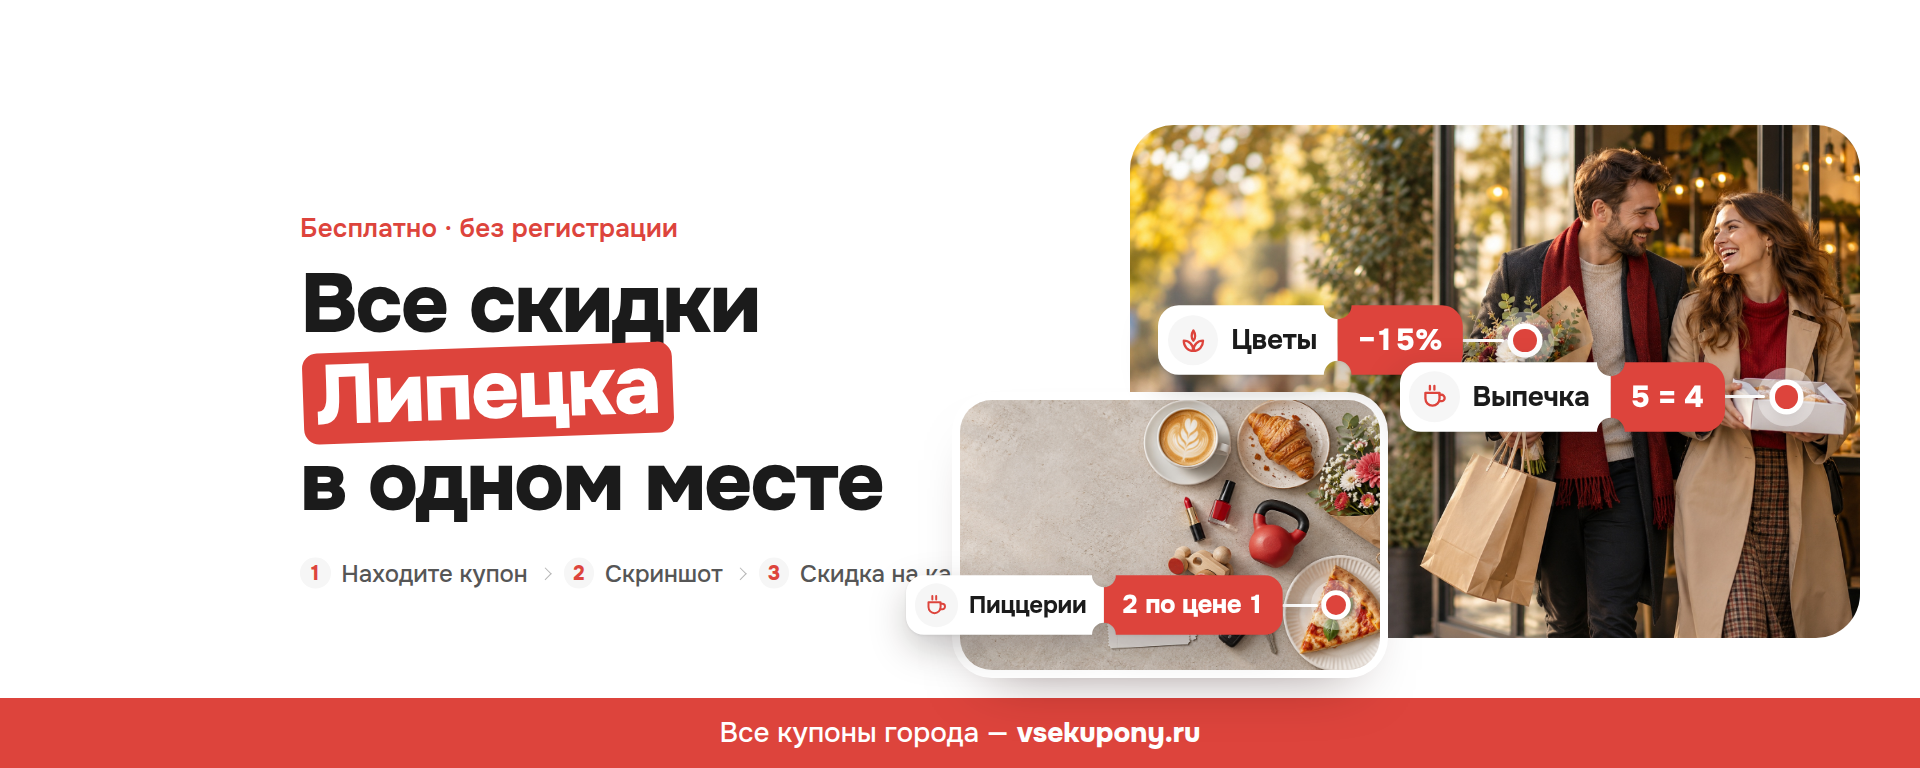
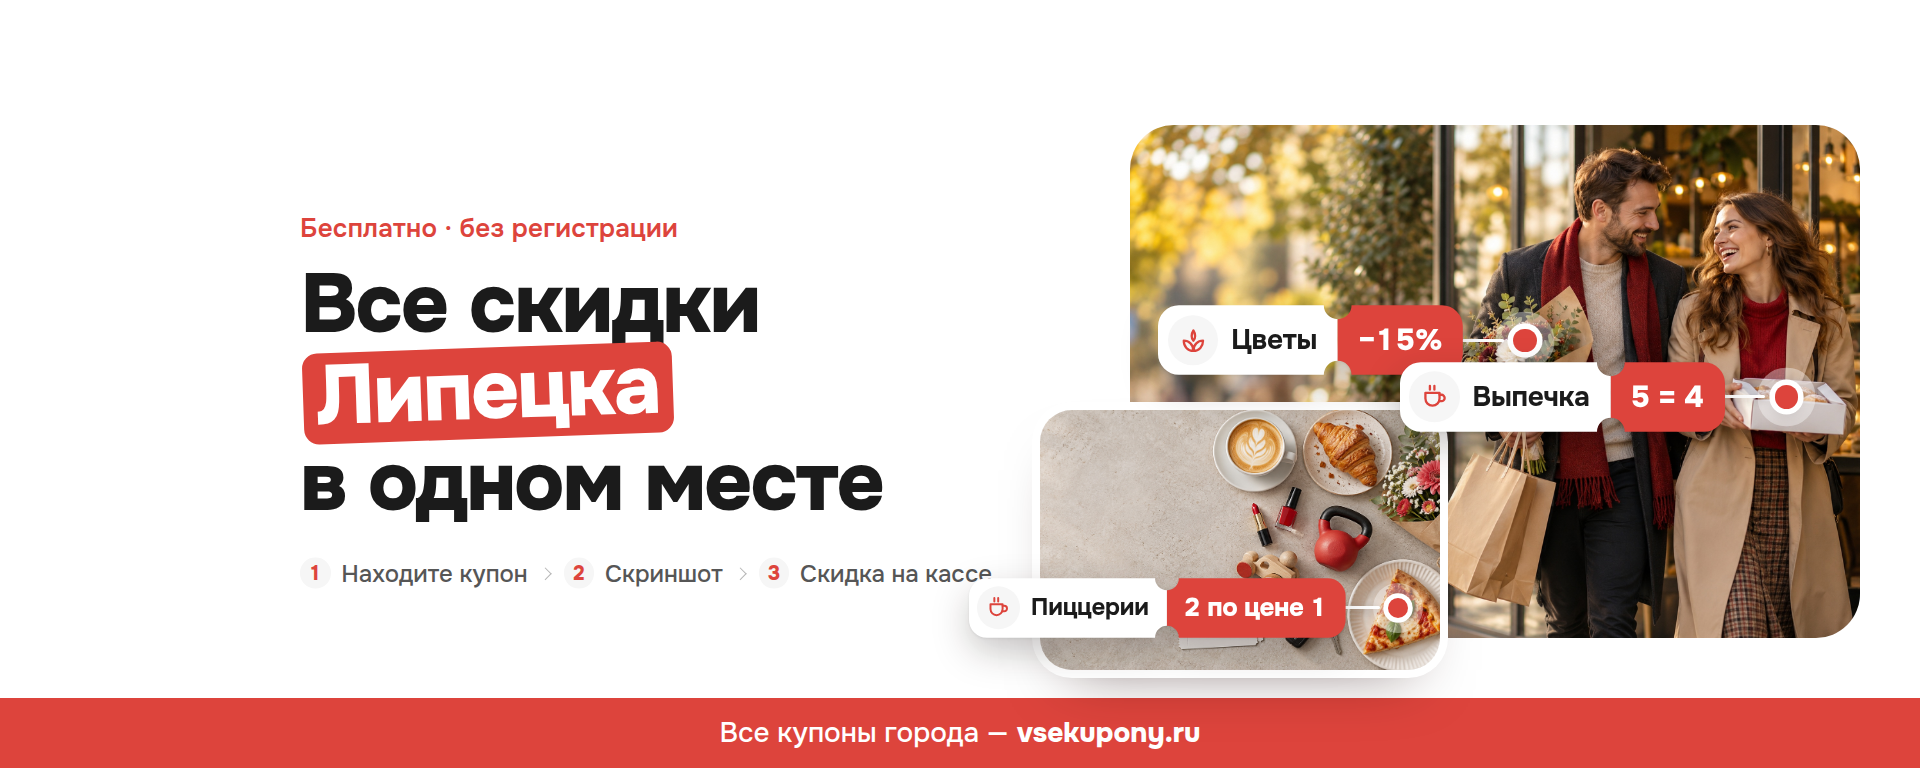
Соцсети: Q без наложения меток, в S малая рамка не заходит на текст
Claude-Session: https://claude.ai/code/session_01VVvPvHVUv25TaftPDqbPP7

Changed region(s): [[0.4688, 0.5, 0.7812, 0.9062]]

diff --git a/social-kit/kit.css b/social-kit/kit.css
@@ -813,5 +813,5 @@ body{
 /* S: две рамки внахлёст — большая справа, малая ниже и левее, с белой
    обводкой, чтобы читалась отдельным снимком */
 :is(#covers2,#vkprev) .vk-cover.cv-duo .shot{left:1130px;top:125px;right:60px;bottom:130px;--pos:72% 40%}
-:is(#covers2,#vkprev) .vk-cover.cv-duo .shot--2{left:960px;top:400px;right:auto;bottom:auto;width:420px;height:270px;
+:is(#covers2,#vkprev) .vk-cover.cv-duo .shot--2{left:1040px;top:410px;right:auto;bottom:auto;width:400px;height:260px;
   border-radius:32px;box-shadow:0 0 0 8px #fff, 0 30px 60px -30px rgba(40,10,8,.5);--pos:88% 75%;--hot-fs:24px;z-index:2}

diff --git a/social-kit/index.html b/social-kit/index.html
@@ -446,7 +446,7 @@
     <div class="row">
       <figure class="slot"><figcaption><b>ВК</b> 1920×768</figcaption>
         <div class="fit"><div class="art vk-cover cv cv-hot cv-frame  has-strip" id="vk-cover-fr-flat" data-out="vk/vk-cover-fr-flat-1920x768">
-          <div class="shot" data-photo="flatlay" data-hot="lipstick,kettle,pizza"></div>
+          <div class="shot" data-photo="flatlay" data-hot="kettle,pizza"></div>
           <div class="txt">
             <div class="eyebrow">Бесплатно · без регистрации</div>
             <h1 class="h1">Все скидки<br><span class="city" data-city>Липецка</span><br>в одном месте</h1>
